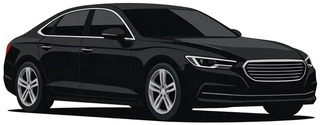
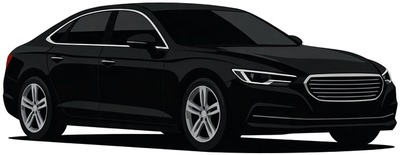
Prueba cliente (inicio nuevo): carro un poco más negro y más grande
Claude-Session: https://claude.ai/code/session_01WEAdGVAAAPDxH26jMqcg1F

diff --git a/prueba-cliente/inicio-nuevo.html b/prueba-cliente/inicio-nuevo.html
@@ -769,7 +769,7 @@
   .x-at{background:#fff;color:var(--navy);border:1px solid #E4E7EC;box-shadow:0 6px 16px rgba(16,24,40,.08)}
   .x-at-il{position:absolute;left:0;right:0;bottom:6px;height:74px;display:flex;align-items:flex-end;justify-content:center;pointer-events:none}
   .x-at-il svg{width:64px;height:64px}
-  #u-s-viaje .x-at-il{left:4px;right:4px;bottom:10px}#u-s-viaje .x-at-il img{max-width:98px;max-height:60px;object-fit:contain}
+  #u-s-viaje .x-at-il{left:-60px;right:2px;bottom:12px;justify-content:flex-end}#u-s-viaje .x-at-il img{height:47px;width:auto;max-width:none}
   .x-at-t small{color:var(--gris);opacity:1}
   .x-lugares{display:flex;flex-direction:column}
   .x-lug{display:flex;align-items:center;gap:14px;border:0;background:none;font:inherit;text-align:left;padding:13px 0;border-bottom:1px solid #EEF0F4;color:var(--texto);width:100%}
@@ -2133,7 +2133,7 @@
     // Íconos propios en silueta (azul oscuro de AutoAmigo con un detalle rojo); los huecos son del color de la tarjeta
     var N = '#000', R = '#000', F = '#fff';   // íconos negros sobre tarjeta blanca (pedido del dueño)
     var ilus = {
-      viaje: '<img src="img/atajos/viaje-dibujo.jpg?v=1" alt="">',   // carro real hecho dibujo (opción 2 elegida por el dueño)
+      viaje: '<img src="img/atajos/viaje-dibujo.jpg?v=2" alt="">',   // carro real hecho dibujo (opción 2 elegida por el dueño)
       reservar: '<svg viewBox="0 0 64 64"><rect x="8" y="12" width="48" height="46" rx="9" fill="' + N + '"/><rect x="8" y="25" width="48" height="2.5" fill="' + F + '"/>' +
         '<rect x="18" y="5" width="6" height="14" rx="3" fill="' + N + '" stroke="' + F + '" stroke-width="2"/><rect x="40" y="5" width="6" height="14" rx="3" fill="' + N + '" stroke="' + F + '" stroke-width="2"/>' +
         [0, 1, 2].map(function (r) { return [0, 1, 2, 3].map(function (c) { var on = r === 1 && c === 2; return '<rect x="' + (15 + c * 9.5) + '" y="' + (32 + r * 8) + '" width="6" height="5" rx="1.5" fill="' + (on ? R : F) + '"/>'; }).join(''); }).join('') + '</svg>',
